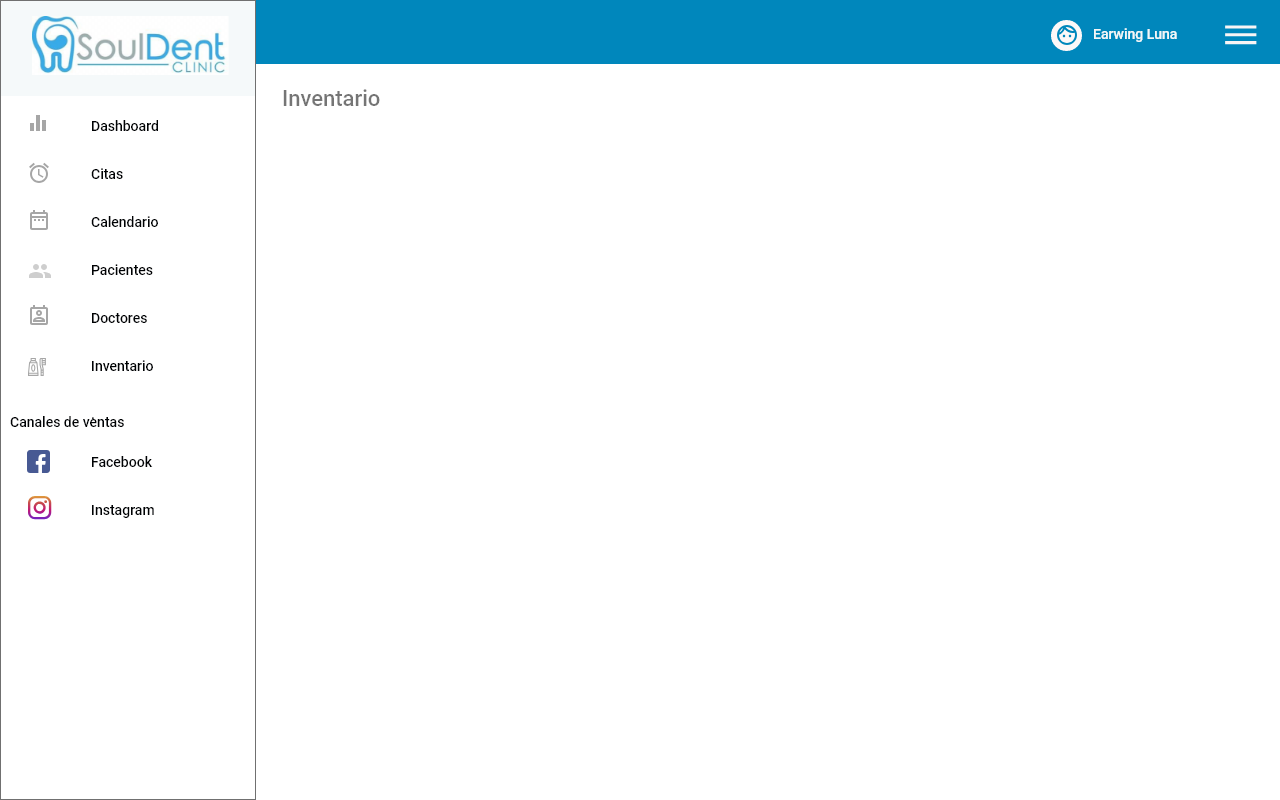
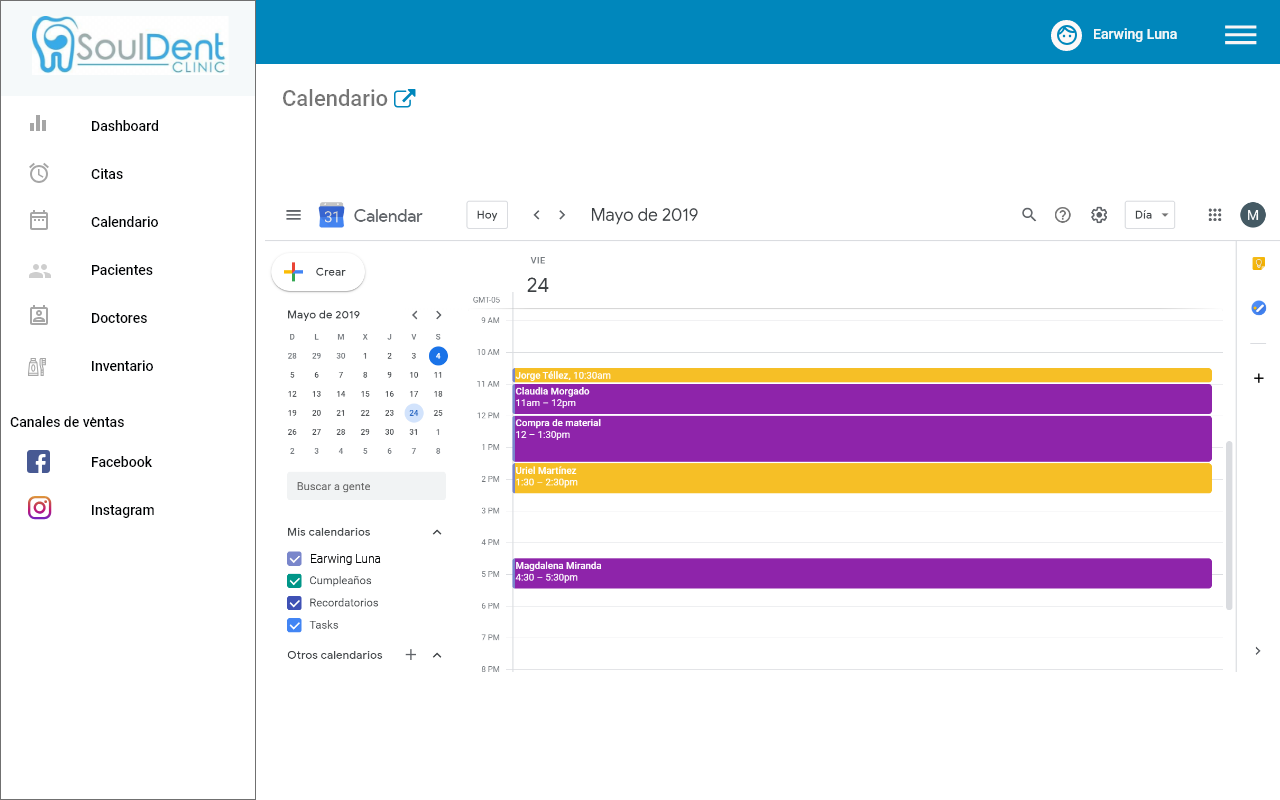
se agregaron las pantallas del calendario

diff --git a/TrainingDashboard-Maritza.md b/TrainingDashboard-Maritza.md
@@ -52,6 +52,10 @@ La información sobre las citas agendadas.
 La opción de agregar una cita, desplegando un calendario y reloj.
 ![GitHub Propuesta](Interfaz/3.png)
 
+El calendario, ligado a Google Calendar, donde se visualizan los recordatorios, fechas importantes, citas, etc.
+![GitHub Propuesta](Interfaz/13.png)
+![GitHub Propuesta](Interfaz/14.png)
+
 La información sobre los pacientes.
 ![GitHub Propuesta](Interfaz/5.png)
 
@@ -68,10 +72,10 @@ La información sobre el inventario disponible en consultorio.
 ![GitHub Propuesta](Interfaz/9.png)
 
 * La información de Facebook Analytics (en realidad, la idea es poner el link que lleve directamente a la sección de Facebook Analytics de la fanpage).
-![GitHub Propuesta](Interfaz/Prototipo10.png)
+![GitHub Propuesta](Interfaz/11.png)
 
 * La información de Instagram Analytics, así como la información de Facebook, la idea es poner un link directamente a la cuenta de dicha red social.
-![GitHub Propuesta](Interfaz/Prototipo11.png)
+![GitHub Propuesta](Interfaz/12.png)
 
 
 
